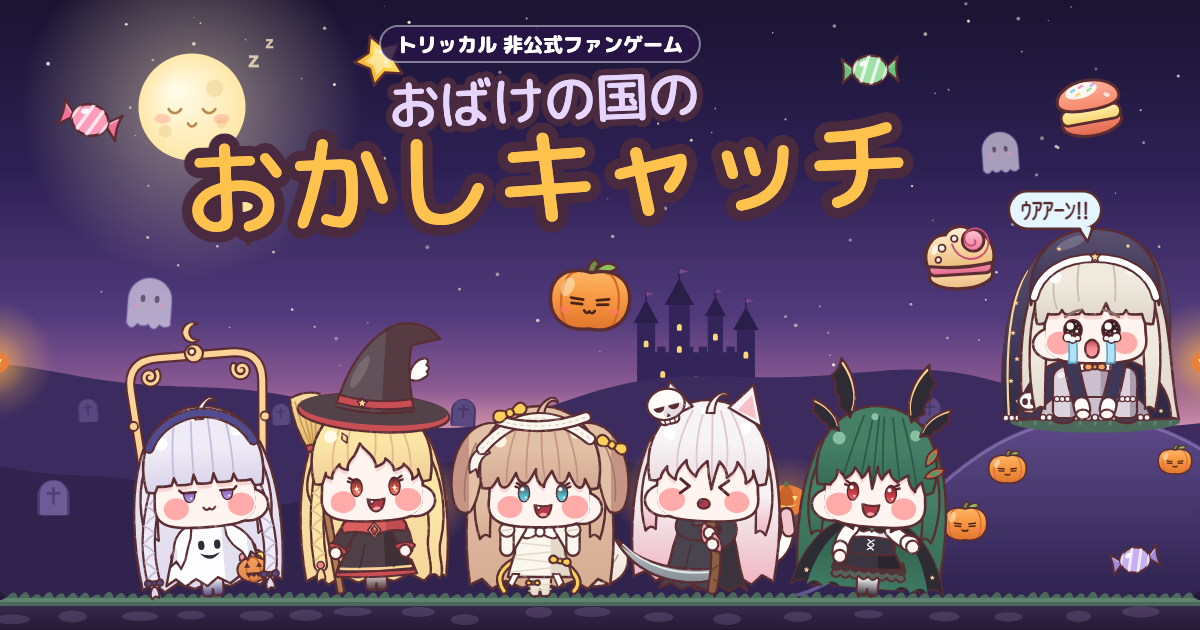
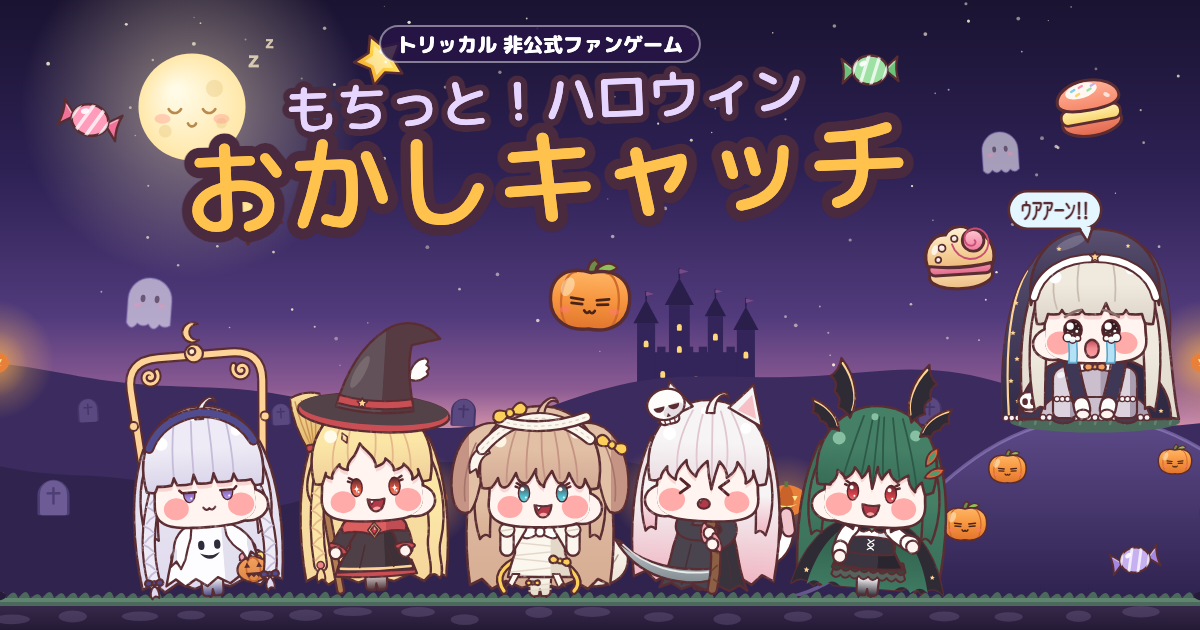
タイトルを「もちっと！ハロウィンおかしキャッチ」に変え、ロゴとサムネイル・リンクの絵も差し替えた

Changed region(s): [[0.2158, 0.0905, 0.6783, 0.2111]]

diff --git a/src/dev/art.ts b/src/dev/art.ts
@@ -78,7 +78,7 @@ const L: Layout = {
   pauseBtn: { x: 0, y: 0, w: 0, h: 0 },
 };
 
-void Promise.all([document.fonts.load(popFont(80), 'おばけの国のおかしキャッチ'), document.fonts.load(font(20), 'トリッカル非公式ファンゲーム')]).then(draw);
+void Promise.all([document.fonts.load(popFont(80), 'もちっと！ハロウィンおかしキャッチ'), document.fonts.load(font(20), 'トリッカル非公式ファンゲーム')]).then(draw);
 
 function draw(): void {
   drawScene(c, L);
@@ -121,7 +121,7 @@ function draw(): void {
   c.fillText(pill, tx, py + 19 * k);
   c.translate(tx, 0);
   c.rotate(-0.04);
-  outlined(c, 'おばけの国の', 0, sub[0], { size: sub[1], font: popFont(sub[1]), fill: '#e6d6ff', stroke: C.ink, width: sub[1] * 0.27 });
+  outlined(c, 'もちっと！ハロウィン', 0, sub[0], { size: sub[1], font: popFont(sub[1]), fill: '#e6d6ff', stroke: C.ink, width: sub[1] * 0.27 });
   outlined(c, 'おかしキャッチ', 0, main[0], { size: main[1], font: popFont(main[1]), fill: '#ffc24d', stroke: C.ink, width: main[1] * 0.21 });
   c.restore();
   // ?kind=… を headless の --dump-dom で取り出せるよう、PNG を本文に書き出す

diff --git a/index.html b/index.html
@@ -3,9 +3,9 @@
   <head>
     <meta charset="UTF-8" />
     <meta name="viewport" content="width=device-width, initial-scale=1.0, maximum-scale=1.0, user-scalable=no, viewport-fit=cover" />
-    <title>おばけの国のおかしキャッチ</title>
+    <title>もちっと！ハロウィンおかしキャッチ</title>
     <meta name="description" content="『トリッカル・もちもちほっぺ大作戦』の非公式ファンゲーム。ハロウィンの仮装をしたコミー・エルフィン・バター・ヨミ・ジョアンで、おばけの国に降るおかしをキャッチしよう。" />
-    <meta property="og:title" content="おばけの国のおかしキャッチ" />
+    <meta property="og:title" content="もちっと！ハロウィンおかしキャッチ" />
     <meta property="og:description" content="『トリッカル・もちもちほっぺ大作戦』の非公式ファンゲーム。降ってくるおかしをキャッチして、ホバギをよけて、泣いちゃったスピキをなぐさめよう。" />
     <meta property="og:type" content="website" />
     <meta name="twitter:card" content="summary" />

diff --git a/src/config/text.ts b/src/config/text.ts
@@ -2,7 +2,7 @@
 import type { ItemKind, RankId, TitleId } from './balance';
 import type { CharId } from './characters';
 
-export const GAME_TITLE = 'おばけの国のおかしキャッチ';
+export const GAME_TITLE = 'もちっと！ハロウィンおかしキャッチ';
 export const DISCLAIMER = '本作は『トリッカル・もちもちほっぺ大作戦』の非公式ファンゲームです。公式とは関係ありません。原作に関する権利は各権利者に帰属します。';
 export const SHARE_URL = 'https://sabanogames.com/entertainments/trickcal-or-treat-2026/';
 

diff --git a/src/ui/menus.ts b/src/ui/menus.ts
@@ -72,7 +72,7 @@ export function titleScreen(
       'div',
       { class: 'logo' },
       h('span', { class: 'logo-sub' }, 'トリッカル 非公式ファンゲーム'),
-      h('h1', {}, h('span', { class: 'l1' }, 'おばけの国の'), h('span', { class: 'l2' }, 'おかしキャッチ')),
+      h('h1', {}, h('span', { class: 'l1' }, 'もちっと！ハロウィン'), h('span', { class: 'l2' }, 'おかしキャッチ')),
     ),
     h('div', { class: 'title-stage' }, row),
     h(

diff --git a/docs/design.md b/docs/design.md
@@ -1,4 +1,4 @@
-# おばけの国のおかしキャッチ — ゲームデザイン
+# もちっと！ハロウィンおかしキャッチ — ゲームデザイン
 
 『トリッカル・もちもちほっぺ大作戦』の**非公式ファンゲーム**。GiGO コラボ「トリッカル or トリート!!」の仮装をした 5 人で、
 おばけの国に降ってくるお菓子をキャッチするスコアアタック。

diff --git a/README.md b/README.md
@@ -1,4 +1,4 @@
-# おばけの国のおかしキャッチ
+# もちっと！ハロウィンおかしキャッチ
 
 本作は『トリッカル・もちもちほっぺ大作戦』の **非公式ファンゲーム** です。公式とは関係ありません。原作に関する権利は各権利者に帰属します。
 
